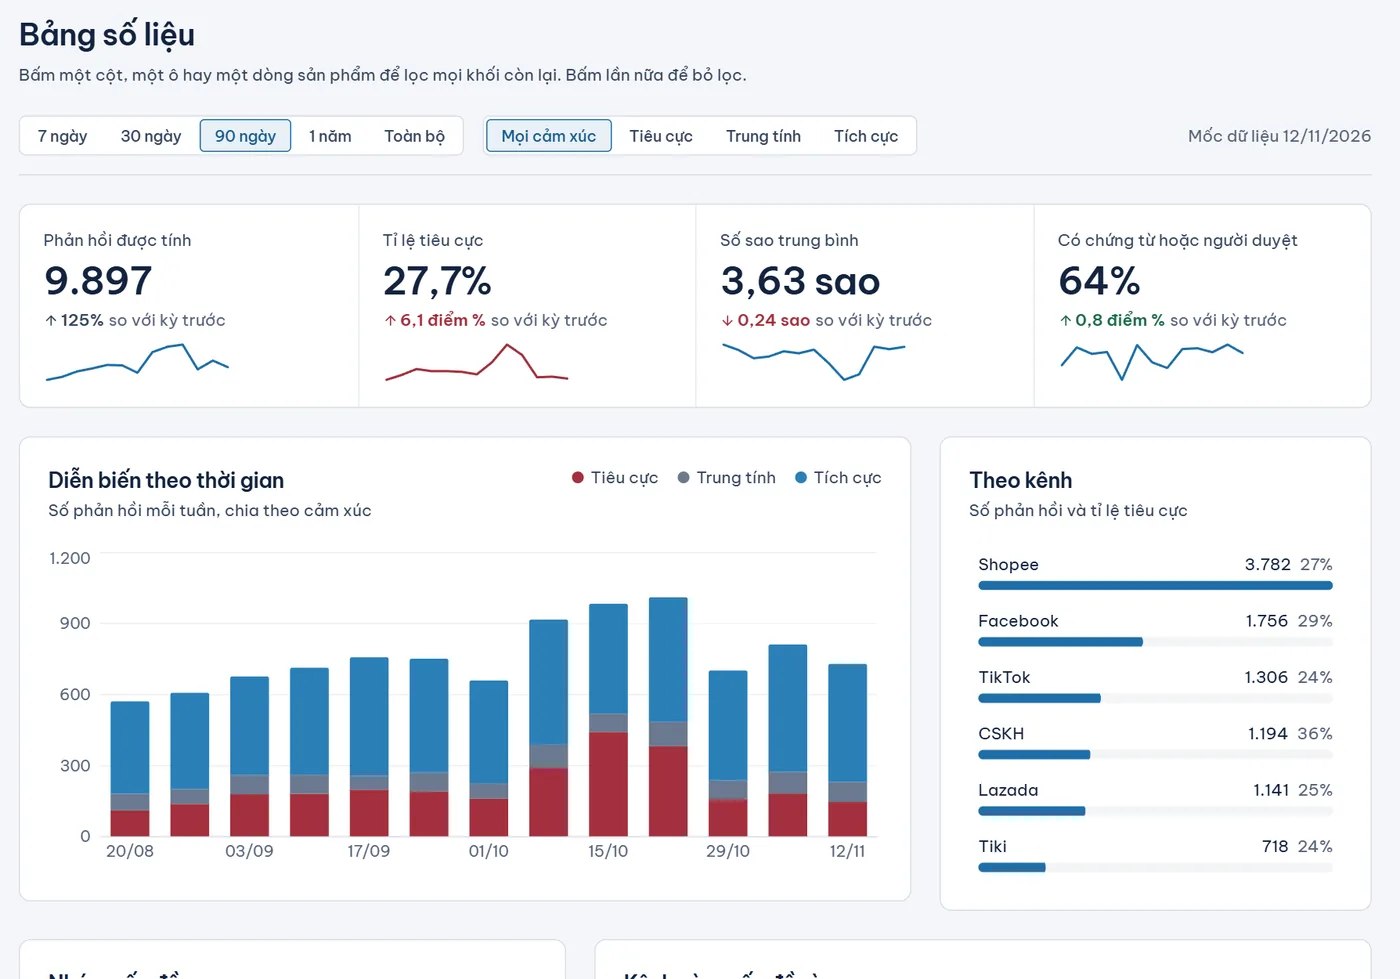
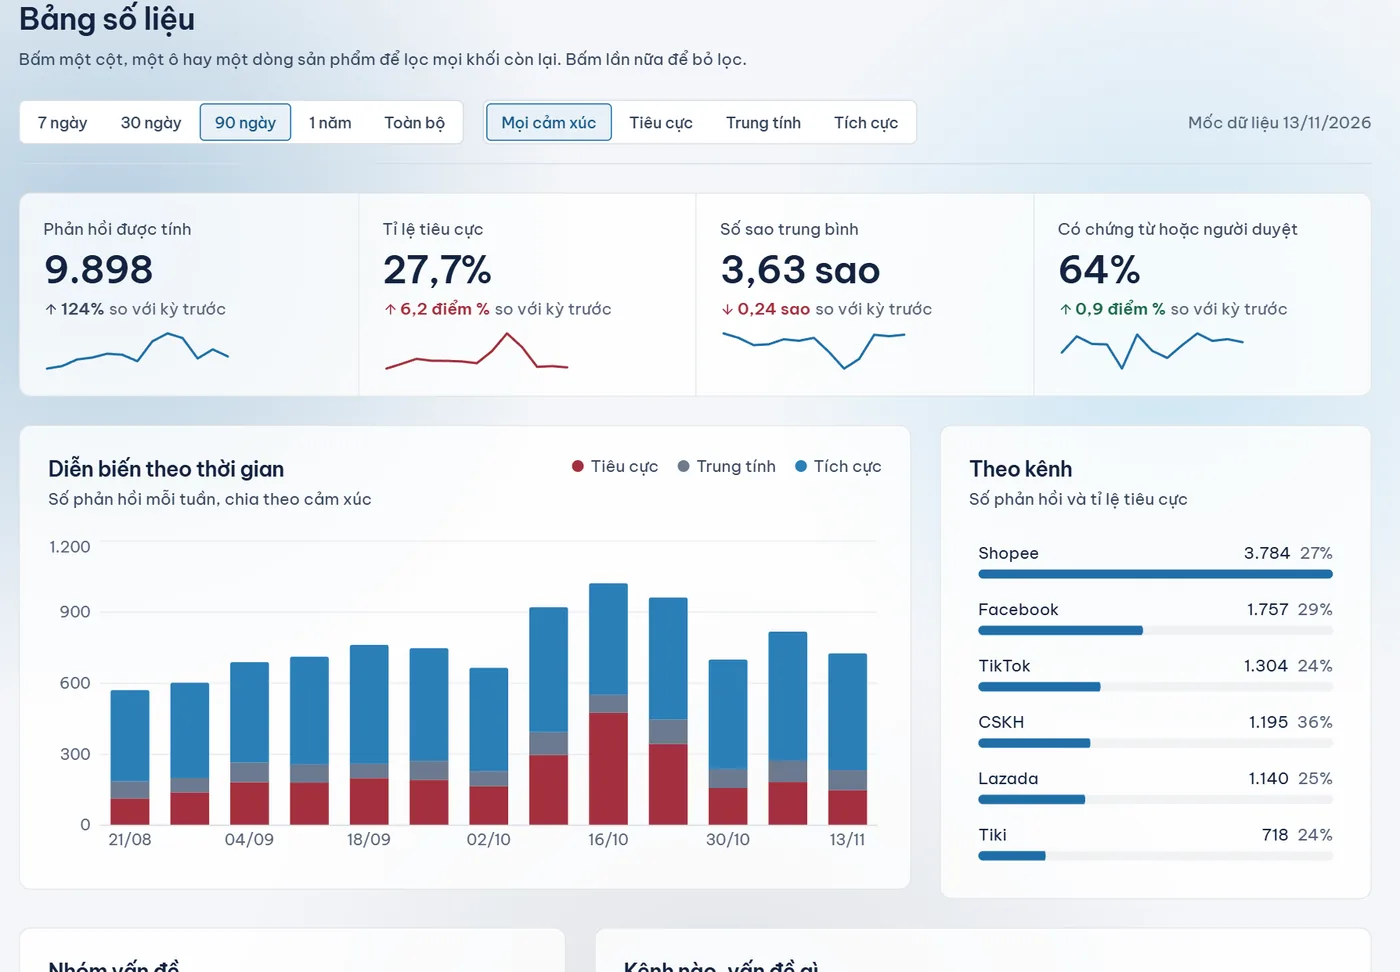
Trang giới thiệu: chụp lại 10 ảnh app bản kính, cập nhật SNAPSHOT theo số sống
- 10 ảnh WebP chụp từ bản chạy chung (kho Mô phỏng, chỉ đọc, giảm chuyển động bật), hết Admin User.
- SNAPSHOT theo /trust/health lúc 03:11 13/11/2026: 15.129 - 569 - 69 - 12 - 150 = 14.329.
- SHOTS theo kích thước ảnh mới (so-doi-chieu 552x666, viec-hom-nay 531, bảng số liệu và livestream 972).

diff --git a/src/components/landing/data.js b/src/components/landing/data.js
@@ -7,30 +7,30 @@ import axios from 'axios';
  * Mọi con số trên trang đến từ ĐÚNG MỘT lần gọi `/trust/health` của kho
  * mô phỏng (demo). Máy chủ Render ngủ thì lần gọi đầu có thể mất cả phút,
  * nên quá 4 giây hoặc lỗi là dùng ảnh chụp số tĩnh bên dưới, và trang ghi
- * rõ "Số liệu ngày 12/11/2026". Số về muộn hơn 4 giây bị bỏ qua: không để
+ * rõ "Số liệu ngày 13/11/2026". Số về muộn hơn 4 giây bị bỏ qua: không để
  * con số nhảy khi người xem đang đọc.
  *
  * SNAPSHOT: chụp từ backend local (cùng cụm Atlas với prod, kho demo)
- * lúc 20:53 ngày 12/11/2026, `computedAt` 2026-11-12T13:51:51Z. Chỉ giữ
+ * lúc 03:11 ngày 13/11/2026, `computedAt` 2026-11-12T19:34:08Z. Chỉ giữ
  * các trường trang này đọc, đúng tên trường của API.
  */
-export const SNAPSHOT_DATE = '12/11/2026';
+export const SNAPSHOT_DATE = '13/11/2026';
 
 export const SNAPSHOT = {
-  rawCollected: 15112,
-  spamRemoved: { count: 567 },
+  rawCollected: 15129,
+  spamRemoved: { count: 569 },
   inauthenticFlagged: { count: 69 },
   pendingReview: { count: 14 },
-  validForAnalysis: 14462,
-  countedForMetrics: 14314,
-  ledger: { spam: 567, inauthentic: 69, pendingNotCounted: 12, pendingCounted: 2, aged: 150, counted: 14314 },
+  validForAnalysis: 14477,
+  countedForMetrics: 14329,
+  ledger: { spam: 569, inauthentic: 69, pendingNotCounted: 12, pendingCounted: 2, aged: 150, counted: 14329 },
   reconciliationRate: 60,
   humanLabelCount: 0,
   tierBreakdown: [
-    { tier: 'P1', count: 8277 },
-    { tier: 'P2', count: 794 },
-    { tier: 'P3', count: 3081 },
-    { tier: 'P4', count: 2904 },
+    { tier: 'P1', count: 8284 },
+    { tier: 'P2', count: 796 },
+    { tier: 'P3', count: 3085 },
+    { tier: 'P4', count: 2908 },
     { tier: 'P5', count: 56 }
   ]
 };

diff --git a/src/components/landing/Landing.jsx b/src/components/landing/Landing.jsx
@@ -23,9 +23,9 @@ import './landing.css';
  * Việc hôm nay (rãnh ngang), Người làm ra (ảnh nhóm), Chốt (đứng yên).
  *
  * Số liệu: data.js gọi /trust/health của kho mô phỏng MỘT lần; quá 4 giây hoặc
- * lỗi thì dùng ảnh chụp số ngày 12/11/2026 và ghi rõ ngày.
+ * lỗi thì dùng ảnh chụp số ngày 13/11/2026 và ghi rõ ngày.
  *
- * ẢNH CHỤP APP BẢN MỚI (sau F4 đến F7, chụp 12/11/2026 20:53, giảm chuyển động bật):
+ * ẢNH CHỤP APP BẢN MỚI (sau F4 đến F7, chụp 13/11/2026 03:11, giảm chuyển động bật):
  *   public/landing/tong-quan-{light,dark}.webp       Tổng quan nguyên màn (hero, lớp giữa)
  *   public/landing/bang-so-lieu-{light,dark}.webp    Bảng số liệu, bỏ thanh bên (hero lớp sau, rãnh)
  *   public/landing/so-doi-chieu-{light,dark}.webp    tờ sổ đối chiếu cắt ra, góc bo trong suốt (hero lớp trước)
@@ -45,10 +45,10 @@ import './landing.css';
 
 const SHOTS = {
   overview: { base: 'tong-quan', w: 1600, h: 1000 },
-  insights: { base: 'bang-so-lieu', w: 1400, h: 979 },
-  sheet: { base: 'so-doi-chieu', w: 600, h: 669 },
-  today: { base: 'viec-hom-nay', w: 1400, h: 654 },
-  live: { base: 'livestream', w: 1400, h: 979 }
+  insights: { base: 'bang-so-lieu', w: 1400, h: 972 },
+  sheet: { base: 'so-doi-chieu', w: 552, h: 666 },
+  today: { base: 'viec-hom-nay', w: 1400, h: 531 },
+  live: { base: 'livestream', w: 1400, h: 972 }
 };
 const shot = (key, theme) => `/landing/${SHOTS[key].base}-${theme === 'dark' ? 'dark' : 'light'}.webp`;
 
